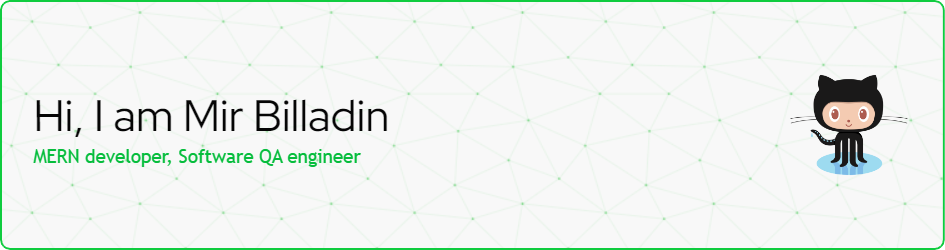
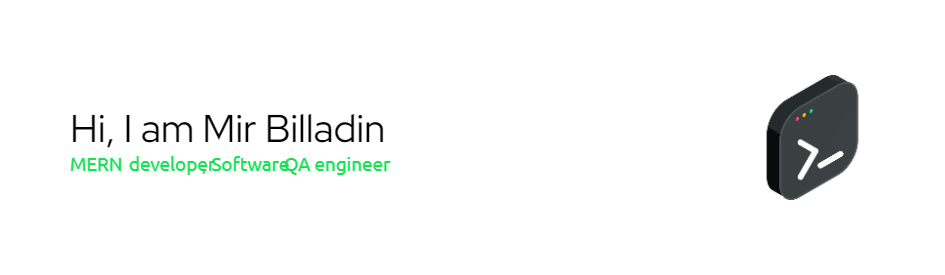
update readme

diff --git a/README.md b/README.md
@@ -4,7 +4,7 @@
 
 <p align="center">
   <a>
-    <img src="./github-header-image (12).png">
+    <img src="./github-header.png">
   </a>
 </p>
 
